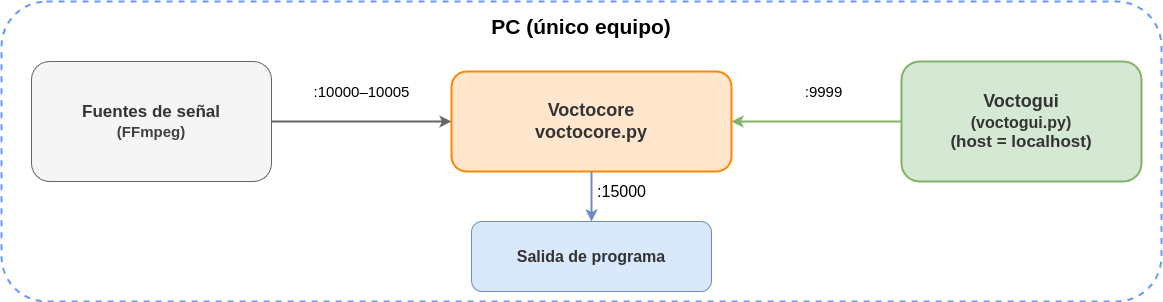
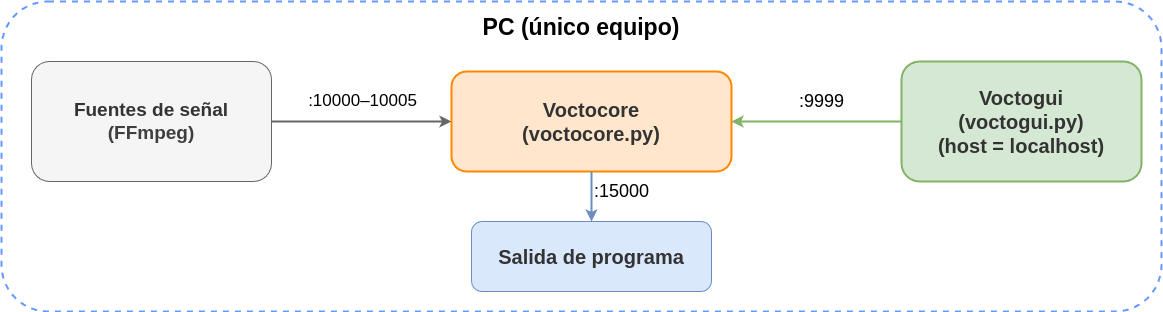
docs: final review fixes for cap4 deployment scenarios
- Fix AMQP direction in K8s section: telemetry publishes to RabbitMQ (not vice versa)
- Replace 'cámaras' with 'fuentes de vídeo'/'contenedores de fuente' in Docker section
- Replace 'bindings' with 'bibliotecas' (more formal academic term)
- Add \ref{} cross-references for all 4 deployment scenario figures
- Update escenario_1pc.png with latest diagram revision

diff --git a/memoria_tfg/capitulos/cap4/4_2_docker.tex b/memoria_tfg/capitulos/cap4/4_2_docker.tex
@@ -13,7 +13,7 @@ El \texttt{Dockerfile} original del repositorio databa de 2016 y usaba Ubuntu~15
 imágenes que ya no existen. Se reescribió desde cero sobre Ubuntu~22.04~LTS. Las
 dependencias se instalan en una sola capa para reducir el tamaño de la imagen: GStreamer~1.0
 con todos sus plugins, FFmpeg~\cite{ffmpeg_project} para la inyección de fuentes de vídeo,
-los bindings Python de GObject y la librería AMQP para la integración con RabbitMQ.
+las bibliotecas Python de GObject y la librería AMQP para la integración con RabbitMQ.
 El fichero Compose define un \textit{healthcheck} que comprueba si voctocore acepta
 conexiones en el puerto~9999, de forma que Docker Compose espera a que el núcleo esté
 listo antes de arrancar los servicios que dependen de él.
@@ -21,7 +21,7 @@ listo antes de arrancar los servicios que dependen de él.
 El principal desafío técnico de la contenedorización fue el aislamiento de red. En Docker,
 cada contenedor tiene su propia interfaz de red, de modo que cuando un proceso se conecta
 a \texttt{localhost} solo alcanza a los procesos de ese mismo contenedor. Esto supone un
-problema para Voctomix porque las cámaras se conectan a voctocore mediante
+problema para Voctomix porque las fuentes de vídeo se conectan a voctocore mediante
 \texttt{localhost:10000}. La solución adoptada es el \textbf{espacio de red compartido}:
 todos los contenedores del sistema (cámaras, break, intro, stream blanker, audio manager
 y telemetría) se configuran con \texttt{network\_mode: "service:voctocore"} en el fichero
@@ -35,7 +35,7 @@ del puerto~9999. Ejecutar una interfaz gráfica dentro de un contenedor no es vi
 servidor gráfico del sistema (X11 o Wayland), por lo que esta parte del sistema queda fuera de Docker. Los
 recursos gráficos como logos e imágenes de fondo se comparten con el contenedor de
 voctocore mediante un volumen, lo que permite modificarlos sin necesidad de reconstruir
-la imagen.
+la imagen (figura~\ref{fig:escenario_docker}).
 
 \begin{figure}[H]
   \centering
@@ -44,7 +44,7 @@ la imagen.
   \label{fig:escenario_docker}
 \end{figure}
 
-Durante las pruebas se detectó un problema de arranque: las cámaras intentaban conectarse
+Durante las pruebas se detectó un problema de arranque: los contenedores de fuente intentaban conectarse
 a voctocore antes de que este estuviera listo, lo que producía fallos. La solución combina
 dos medidas: si un contenedor falla, Docker lo reinicia automáticamente mediante
 \texttt{restart: on-failure}; y antes de lanzar cada servicio, el sistema comprueba que el

diff --git a/memoria_tfg/capitulos/cap4/4_1_scripts_arranque.tex b/memoria_tfg/capitulos/cap4/4_1_scripts_arranque.tex
@@ -48,7 +48,7 @@ y las pruebas funcionales del sistema.
   mediante FFmpeg; por último se arranca \texttt{voctogui.py}, que se conecta a
   voctocore a través de \texttt{localhost} (configurado como \texttt{host=localhost}
   en el fichero de configuración de voctogui), y muestra en la interfaz todas las
-  fuentes activas. Al cerrar la interfaz, los procesos auxiliares se terminan automáticamente.
+  fuentes activas. Al cerrar la interfaz, los procesos auxiliares se terminan automáticamente (figura~\ref{fig:escenario_1pc}).
 
 \end{itemize}
 
@@ -71,7 +71,7 @@ y las pruebas funcionales del sistema.
   puerto de control~9999 a través de la red local, en lugar de \texttt{localhost}.
   Adicionalmente, el PC del realizador abre un monitor de programa conectándose al
   puerto de salida~15000 del servidor, lo que permite supervisar la señal de programa
-  en tiempo real desde el puesto del operador.
+  en tiempo real desde el puesto del operador (figura~\ref{fig:escenario_2pc}).
 
 \end{itemize}
 

diff --git a/memoria_tfg/capitulos/cap4/4_3_kubernetes.tex b/memoria_tfg/capitulos/cap4/4_3_kubernetes.tex
@@ -17,7 +17,7 @@ problema de aislamiento de red que en Docker se solucionó con el espacio de red
 El pod principal, llamado \texttt{studio}, agrupa voctocore, todas las fuentes de vídeo
 (cam1--4, break, intro, stream blanker y audio manager) y el servicio de telemetría. Al compartir pod, todas las conexiones
 TCP internas funcionan sin modificar una sola línea de código. RabbitMQ se despliega en un
-pod independiente y se comunica con la telemetría mediante AMQP.
+pod independiente; la telemetría le publica sus eventos mediante AMQP.
 
 El despliegue se define en cuatro ficheros YAML:
 \texttt{studio.yaml} define el pod principal con todos sus contenedores y los puertos
@@ -45,7 +45,7 @@ los puertos de voctocore (control, previews, salida de programa). En PC2, el ope
 lanza voctogui apuntando a la IP de PC1, exactamente igual que en el escenario de dos PCs
 nativo. Para detener el sistema basta con cerrar el terminal de PC1, lo que cierra
 automáticamente el reenvío de puertos; el clúster y los pods permanecen activos y pueden
-retomarse en cualquier momento sin necesidad de volver a desplegarlos.
+retomarse en cualquier momento sin necesidad de volver a desplegarlos (figura~\ref{fig:escenario_kubernetes}).
 
 \begin{figure}[H]
   \centering